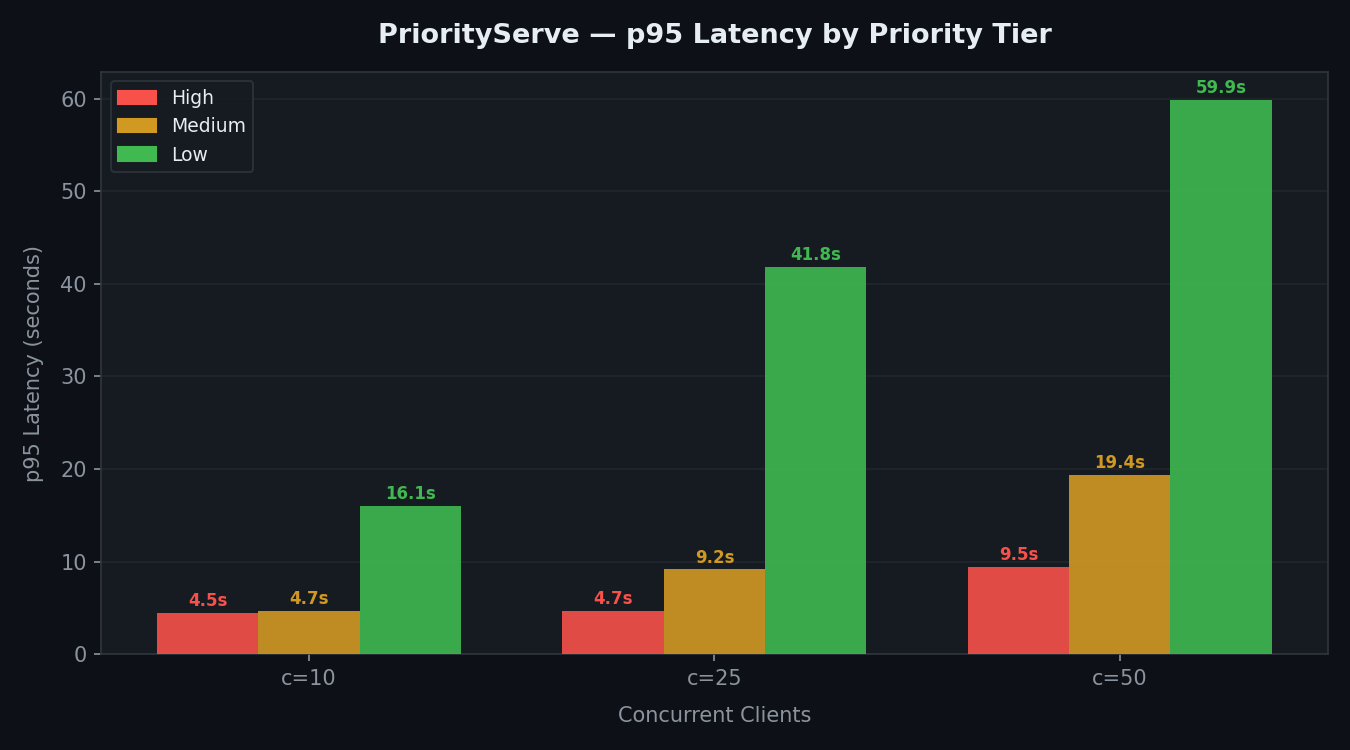
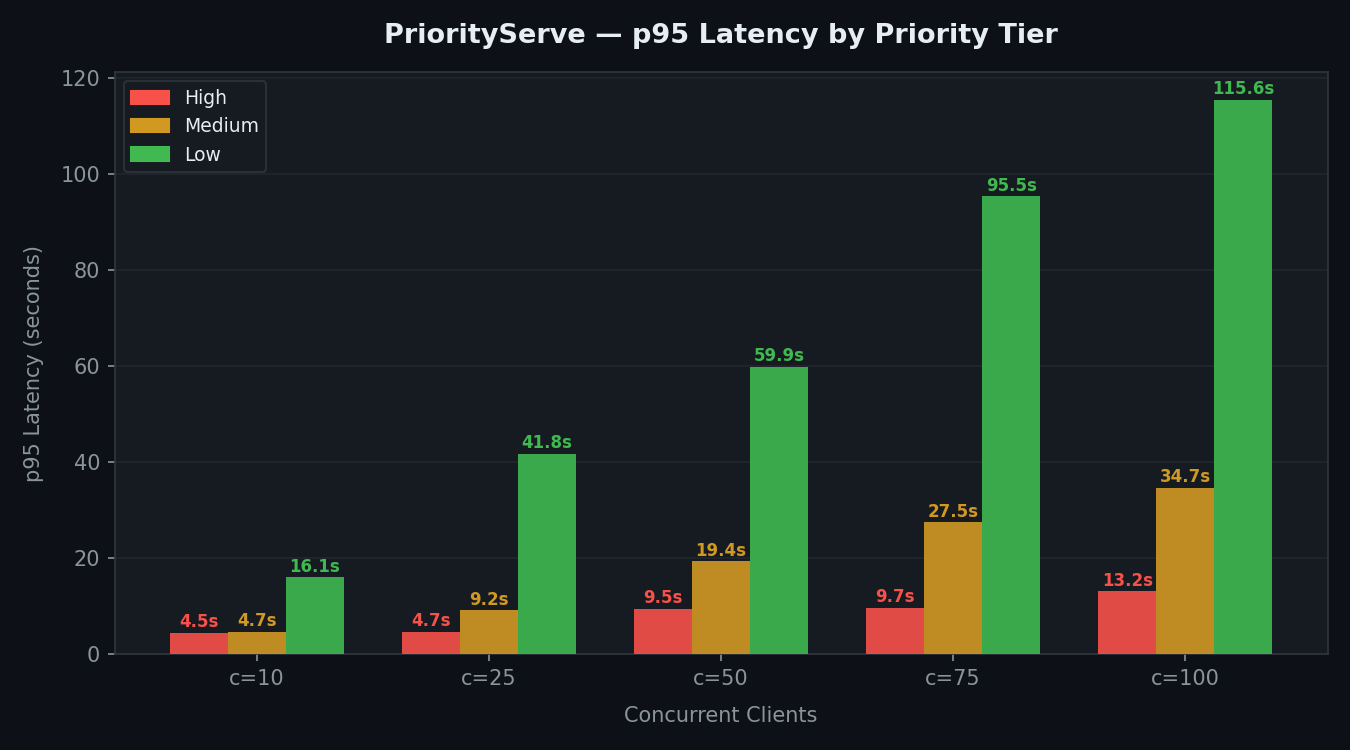
Extend benchmarks to c=75 and c=100, regenerate chart
Separation holds at 6-10x across all five concurrency levels.
High p95 grows 4.5s→13s while low p95 grows 16s→116s over a 10x load increase.

diff --git a/scripts/plot_benchmark.py b/scripts/plot_benchmark.py
@@ -15,9 +15,11 @@ except ImportError:
 
 results_dir = Path(__file__).parent.parent / "results"
 files = {
-    "c=10": results_dir / "loadtest_c10.json",
-    "c=25": results_dir / "loadtest_c25.json",
-    "c=50": results_dir / "loadtest_c50.json",
+    "c=10":  results_dir / "loadtest_c10.json",
+    "c=25":  results_dir / "loadtest_c25.json",
+    "c=50":  results_dir / "loadtest_c50.json",
+    "c=75":  results_dir / "loadtest_c75.json",
+    "c=100": results_dir / "loadtest_c100.json",
 }
 
 data = {}

diff --git a/README.md b/README.md
@@ -10,13 +10,15 @@ Existing local LLM servers (Ollama, llama.cpp server) treat all requests equally
 
 60 requests, 10% high / 20% medium / 70% low priority distribution, Llama 3.2 3B Q4 on Apple M1.
 
-| Concurrency | High p95 | Medium p95 | Low p95 | Separation |
-|-------------|----------|------------|---------|------------|
-| 10 clients  | 4,500ms  | 4,713ms    | 16,065ms | **3.6x**  |
-| 25 clients  | 4,654ms  | 9,168ms    | 41,813ms | **9.0x**  |
-| 50 clients  | 9,472ms  | 19,396ms   | 59,901ms | **6.3x**  |
+| Concurrency | High p95 | Medium p95 | Low p95   | Separation |
+|-------------|----------|------------|-----------|------------|
+| 10 clients  | 4,500ms  | 4,713ms    | 16,065ms  | **3.6x**   |
+| 25 clients  | 4,654ms  | 9,168ms    | 41,813ms  | **9.0x**   |
+| 50 clients  | 9,472ms  | 19,396ms   | 59,901ms  | **6.3x**   |
+| 75 clients  | 9,657ms  | 27,483ms   | 95,452ms  | **9.9x**   |
+| 100 clients | 13,172ms | 34,685ms   | 115,579ms | **8.8x**   |
 
-**High priority p95 stays at ~4.5s at low-to-moderate load while low priority degrades to 42s — a 9x latency separation under the same hardware and model.**
+**High priority p95 grows from 4.5s to 13s across a 10x increase in load. Low priority degrades from 16s to 116s over the same range. Latency separation holds consistently between 6–10x at every concurrency level.**
 
 ![Benchmark Chart](results/benchmark.png)
 